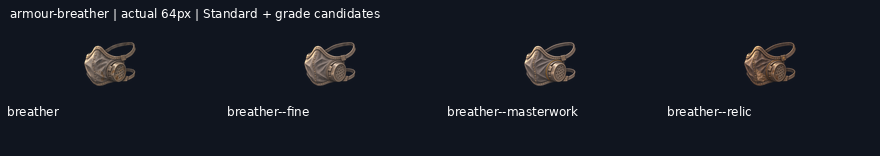
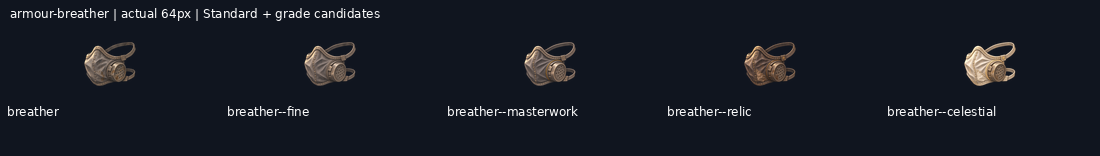
art: draw armour-breather--celestial grade candidate

diff --git a/art/_archive/gear/2026-11-19-kept-blade-grades/HANDOFF.md b/art/_archive/gear/2026-11-19-kept-blade-grades/HANDOFF.md
@@ -1,6 +1,6 @@
 # Gear grade candidates
 
-**148/208 grade candidates delivered** on `art/2026-11-19-kept-blade-grades`. Shared mailbox: https://github.com/leonpentastorm/Project-Heaven-Cry/issues/3 . See claim.json for this lane’s current Standards. Released overlapping blades reuse12 peer candidates, with3 local alternatives archived.
+**149/208 grade candidates delivered** on `art/2026-11-19-kept-blade-grades`. Shared mailbox: https://github.com/leonpentastorm/Project-Heaven-Cry/issues/3 . See claim.json for this lane’s current Standards. Released overlapping blades reuse12 peer candidates, with3 local alternatives archived.
 
 Leon requested continuous candidate production; proof approval is not fabricated. All candidates remain review-candidate, production_approved:false, implementation_ready:false, with outline.review_required:true. Exact outline is measured, never asserted unless the masks match. Per-image registration is uniform scaling/translation only, without warp, silhouette masks, filled pixels or code-drawn substitutes. The generated native remains untouched.
 
@@ -10,12 +10,12 @@ Tomorrow: fetch this branch and develop safely, read the latest issue 3 comments
 
 Peer audit: [coordination/peer-audit-2026-11-19.md](coordination/peer-audit-2026-11-19.md). Peer58 masters/232 exports and12 canonical imports are integrated with versioned alpha<8 cleanup; originals are retained. See coordination/peer-import-v2/manifest.json and post-catalog VALIDATION.json (strict margins pass, solid alpha unchanged). Peer quota resets20 November2026 at09:45:39 Bangkok time; this does not establish this session’s quota.
 
-Remaining: weapon-ork_machete--masterwork, weapon-ork_machete--relic, weapon-ork_machete--celestial, weapon-war_axe--fine, weapon-war_axe--masterwork, weapon-war_axe--relic, weapon-war_axe--celestial, weapon-parlour_pistol--fine, weapon-parlour_pistol--masterwork, weapon-parlour_pistol--relic, weapon-parlour_pistol--celestial, weapon-lever_carbine--fine, weapon-lever_carbine--masterwork, weapon-lever_carbine--relic, weapon-lever_carbine--celestial, weapon-sawn_off--fine, weapon-sawn_off--masterwork, weapon-sawn_off--relic, weapon-sawn_off--celestial, weapon-coach_gun--fine, weapon-coach_gun--masterwork, weapon-coach_gun--relic, weapon-coach_gun--celestial, weapon-legion_bullpup--fine, weapon-legion_bullpup--masterwork, weapon-legion_bullpup--relic, weapon-legion_bullpup--celestial, weapon-whisper_smg--fine, weapon-whisper_smg--masterwork, weapon-whisper_smg--relic, weapon-whisper_smg--celestial, armour-breather--celestial, armour-sealed_visor--fine, armour-sealed_visor--masterwork, armour-sealed_visor--relic, armour-sealed_visor--celestial, armour-breacher_plate--fine, armour-breacher_plate--masterwork, armour-breacher_plate--relic, armour-breacher_plate--celestial, armour-mesh_undersuit--fine, armour-mesh_undersuit--masterwork, armour-mesh_undersuit--relic, armour-mesh_undersuit--celestial, armour-rig_belt--fine, armour-rig_belt--masterwork, armour-rig_belt--relic, armour-rig_belt--celestial, armour-field_trousers--fine, armour-field_trousers--masterwork, armour-field_trousers--relic, armour-field_trousers--celestial, armour-tactical_gloves--fine, armour-tactical_gloves--masterwork, armour-tactical_gloves--relic, armour-tactical_gloves--celestial, armour-jump_boots--fine, armour-jump_boots--masterwork, armour-jump_boots--relic, armour-jump_boots--celestial.
+Remaining: weapon-ork_machete--masterwork, weapon-ork_machete--relic, weapon-ork_machete--celestial, weapon-war_axe--fine, weapon-war_axe--masterwork, weapon-war_axe--relic, weapon-war_axe--celestial, weapon-parlour_pistol--fine, weapon-parlour_pistol--masterwork, weapon-parlour_pistol--relic, weapon-parlour_pistol--celestial, weapon-lever_carbine--fine, weapon-lever_carbine--masterwork, weapon-lever_carbine--relic, weapon-lever_carbine--celestial, weapon-sawn_off--fine, weapon-sawn_off--masterwork, weapon-sawn_off--relic, weapon-sawn_off--celestial, weapon-coach_gun--fine, weapon-coach_gun--masterwork, weapon-coach_gun--relic, weapon-coach_gun--celestial, weapon-legion_bullpup--fine, weapon-legion_bullpup--masterwork, weapon-legion_bullpup--relic, weapon-legion_bullpup--celestial, weapon-whisper_smg--fine, weapon-whisper_smg--masterwork, weapon-whisper_smg--relic, weapon-whisper_smg--celestial, armour-sealed_visor--fine, armour-sealed_visor--masterwork, armour-sealed_visor--relic, armour-sealed_visor--celestial, armour-breacher_plate--fine, armour-breacher_plate--masterwork, armour-breacher_plate--relic, armour-breacher_plate--celestial, armour-mesh_undersuit--fine, armour-mesh_undersuit--masterwork, armour-mesh_undersuit--relic, armour-mesh_undersuit--celestial, armour-rig_belt--fine, armour-rig_belt--masterwork, armour-rig_belt--relic, armour-rig_belt--celestial, armour-field_trousers--fine, armour-field_trousers--masterwork, armour-field_trousers--relic, armour-field_trousers--celestial, armour-tactical_gloves--fine, armour-tactical_gloves--masterwork, armour-tactical_gloves--relic, armour-tactical_gloves--celestial, armour-jump_boots--fine, armour-jump_boots--masterwork, armour-jump_boots--relic, armour-jump_boots--celestial.
 
 Service-rejected requests (do not repeatedly resubmit): weapon-coach_gun--fine, weapon-legion_bullpup--fine, weapon-lever_carbine--fine, weapon-ork_machete--masterwork, weapon-parlour_pistol--fine, weapon-sawn_off--fine, weapon-war_axe--fine, weapon-whisper_smg--fine.
 
 Waiting on rejected prerequisites: weapon-coach_gun--celestial, weapon-coach_gun--masterwork, weapon-coach_gun--relic, weapon-legion_bullpup--celestial, weapon-legion_bullpup--masterwork, weapon-legion_bullpup--relic, weapon-lever_carbine--celestial, weapon-lever_carbine--masterwork, weapon-lever_carbine--relic, weapon-ork_machete--celestial, weapon-ork_machete--relic, weapon-parlour_pistol--celestial, weapon-parlour_pistol--masterwork, weapon-parlour_pistol--relic, weapon-sawn_off--celestial, weapon-sawn_off--masterwork, weapon-sawn_off--relic, weapon-war_axe--celestial, weapon-war_axe--masterwork, weapon-war_axe--relic, weapon-whisper_smg--celestial, weapon-whisper_smg--masterwork, weapon-whisper_smg--relic.
 
-Ready independent next steps, in queue order: armour-breather--celestial, armour-sealed_visor--fine, armour-breacher_plate--fine, armour-mesh_undersuit--fine, armour-rig_belt--fine, armour-field_trousers--fine, armour-tactical_gloves--fine, armour-jump_boots--fine. Other pending grades follow their preceding grade.
+Ready independent next steps, in queue order: armour-sealed_visor--fine, armour-breacher_plate--fine, armour-mesh_undersuit--fine, armour-rig_belt--fine, armour-field_trousers--fine, armour-tactical_gloves--fine, armour-jump_boots--fine. Other pending grades follow their preceding grade.
 
 Runtime handoff: implementation_ready:false records review status but does not gate the web asset builder. The builder emits grade asset keys; the current UI gear resolver still needs grade-aware selection. Do not claim that runtime grade selection is implemented by these art deliveries.
